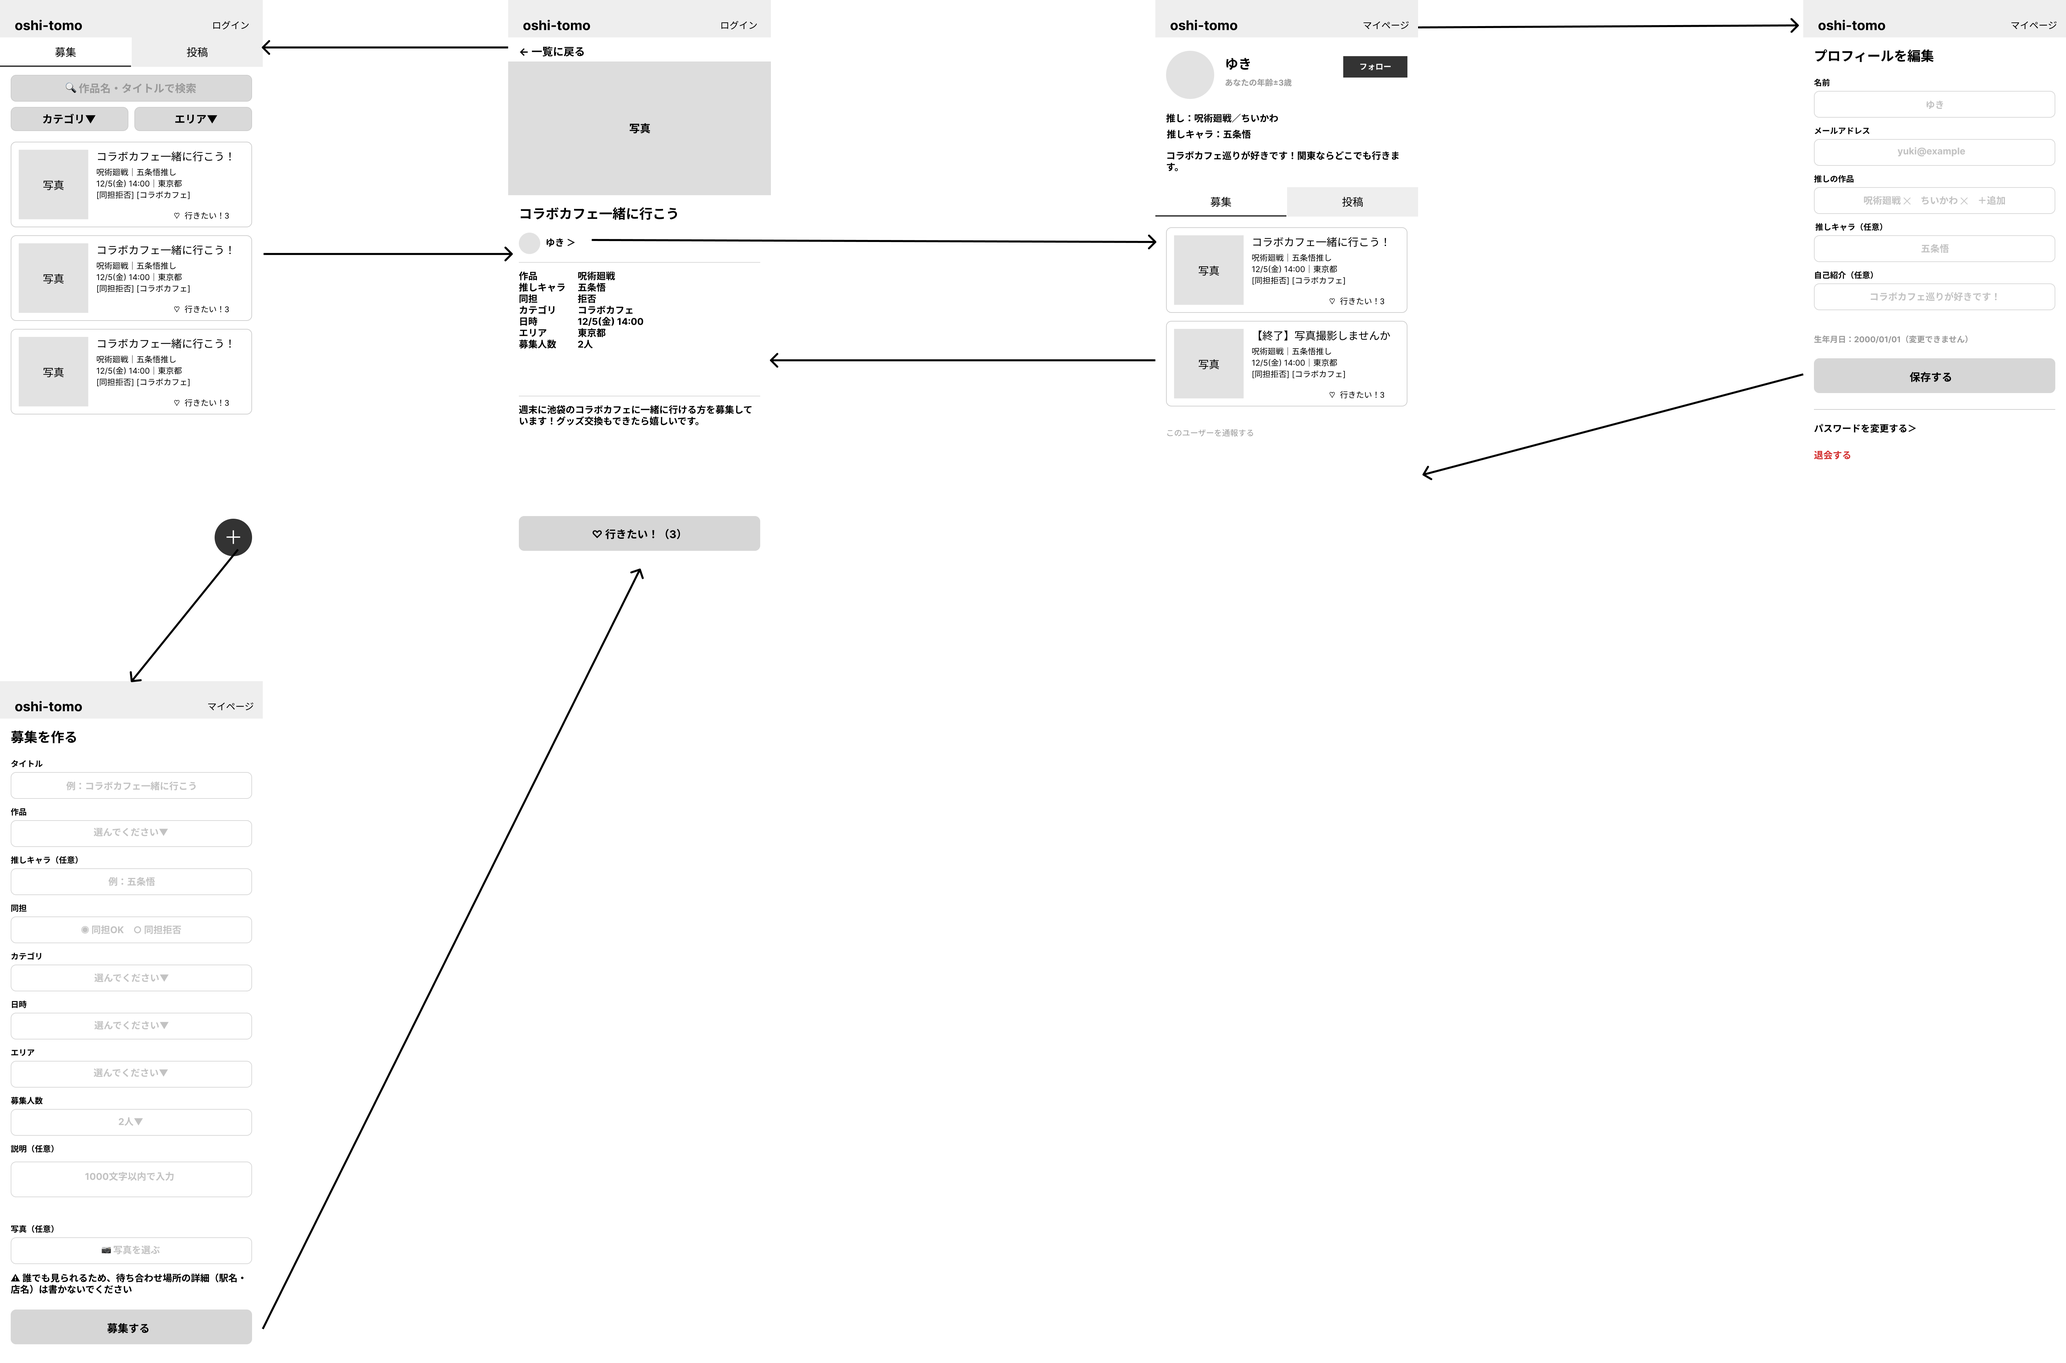
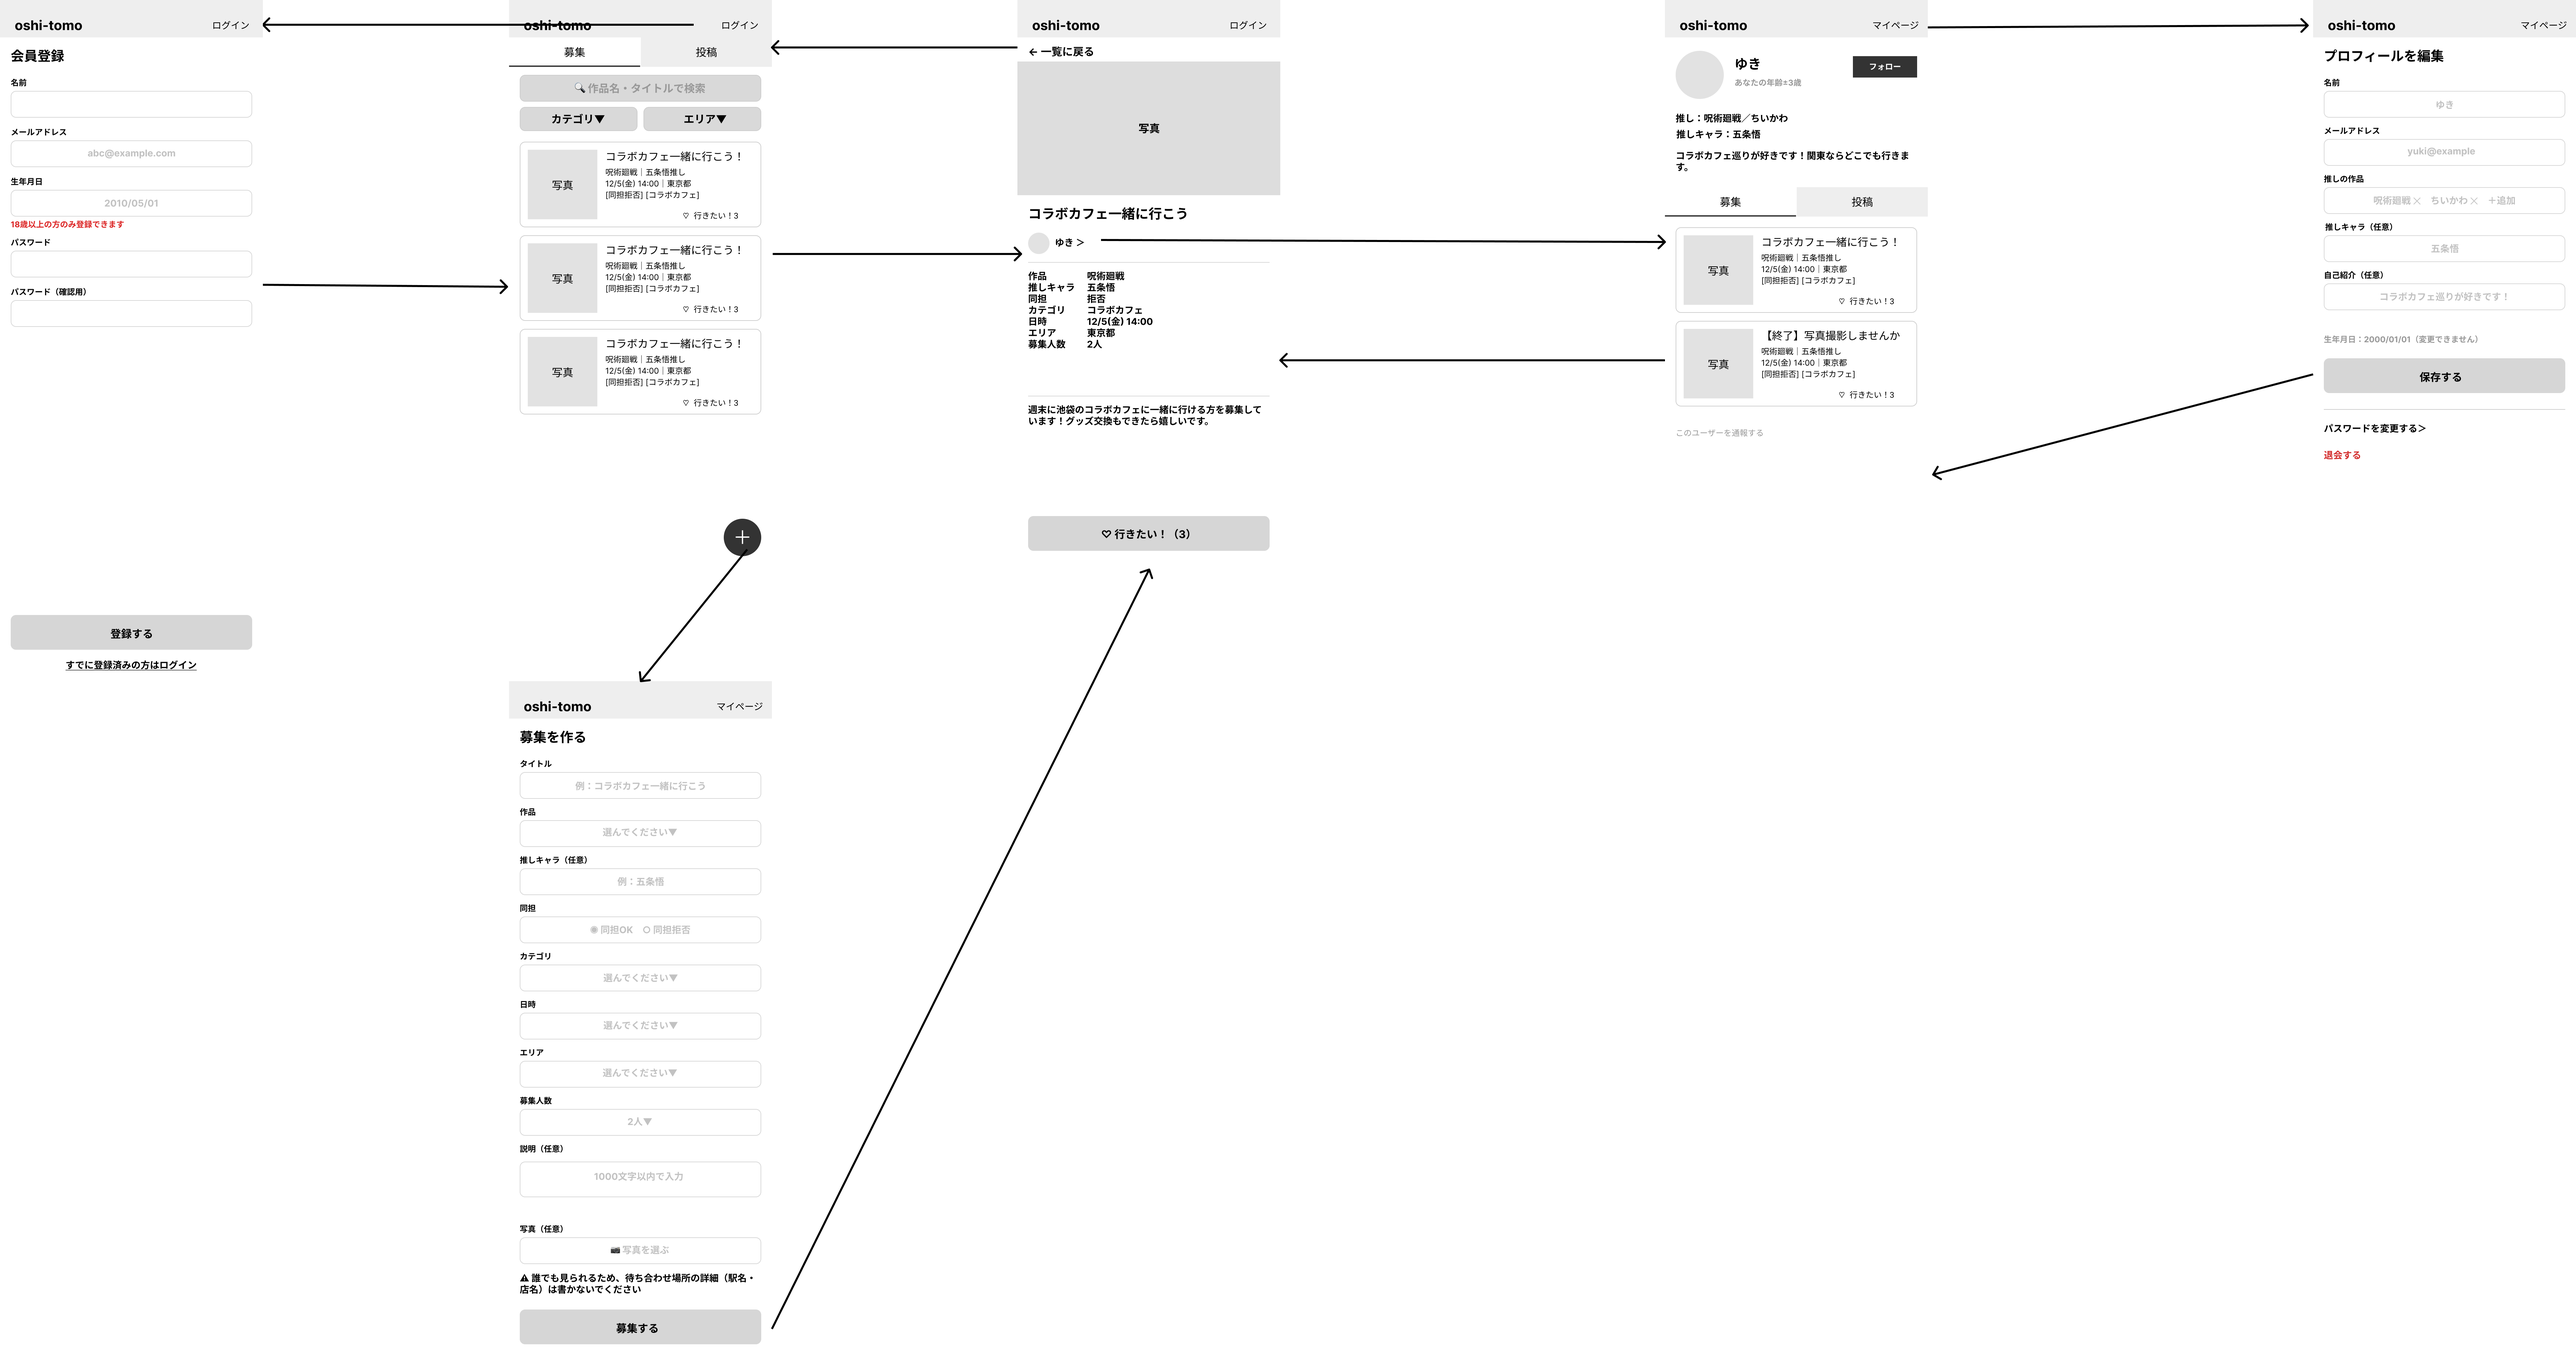
week21: 会員登録の画面を追加し、ER図・画面遷移図を更新

diff --git a/docs/01_screen-design/figma.md b/docs/01_screen-design/figma.md
@@ -6,8 +6,8 @@ https://www.figma.com/design/Tku4M3QKBPlf8cIJ8SJPN7/oshi-tomo-%E7%94%BB%E9%9D%A2
 
 | ページ | 内容 |
 |--------|------|
-| 画面設計 | 主要画面のワイヤーフレーム（5画面） |
-| 画面遷移図 | 5画面を矢印でつないだ図。画像版は [screen-transition.png](screen-transition.png) |
+| 画面設計 | 主要画面のワイヤーフレーム（6画面） |
+| 画面遷移図 | 6画面を矢印でつないだ図。画像版は [screen-transition.png](screen-transition.png) |
 
 ## 設計の方針
 
@@ -19,13 +19,17 @@ https://www.figma.com/design/Tku4M3QKBPlf8cIJ8SJPN7/oshi-tomo-%E7%94%BB%E9%9D%A2
 
 ## 画面一覧
 
-| No | 画面 | ルート（[routing.md](../03_routing-design/routing.md)） | 主な機能 | 優先度 |
-|----|------|------------------------------------------------------|---------|--------|
-| 01 | 募集一覧（トップ） | GET /recruitments（recruitments.index） | F-03, F-05 | Must |
-| 02 | 募集詳細 | GET /recruitments/{recruitment}（recruitments.show） | F-03, F-07, F-08 | Must |
-| 03 | 募集作成 | GET /recruitments/create（recruitments.create）。編集（recruitments.edit）も同じレイアウト | F-03, F-06 | Must |
-| 04 | プロフィール | GET /users/{user}（users.show） | F-02, F-14, F-15 | Must |
-| 05 | プロフィール編集 | GET /profile（profile.edit） | F-02, F-09 | Must |
+| No | 画面 | ルート（[routing.md](../03_routing-design/routing.md)） | 主な機能 | 優先度 | MVP |
+|----|------|------------------------------------------------------|---------|--------|-----|
+| 01 | 募集一覧（トップ） | GET /recruitments（recruitments.index） | F-03, F-05 | Must | ✅（検索はキーワードのみ） |
+| 02 | 募集詳細 | GET /recruitments/{recruitment}（recruitments.show） | F-03, F-07, F-08 | Must | ✅ |
+| 03 | 募集作成 | GET /recruitments/create（recruitments.create）。編集（recruitments.edit）も同じレイアウト | F-03, F-06 | Must | ✅ |
+| 04 | プロフィール | GET /users/{user}（users.show） | F-02, F-14, F-15 | Must | |
+| 05 | プロフィール編集 | GET /profile（profile.edit） | F-02, F-09 | Must | |
+| 06 | 会員登録 | GET /register（register） | F-01 | Must | ✅ |
+
+- 06 は Week 21 で追加した。Breeze の会員登録画面に「生年月日」の欄を足すため、そのままの画面ではなくなるから
+- 01 のカテゴリ・エリアの絞り込みは MVP の後に作る。MVP では検索欄（キーワード）だけ動くようにする
 
 ### 各画面で表している状態
 
@@ -36,6 +40,7 @@ https://www.figma.com/design/Tku4M3QKBPlf8cIJ8SJPN7/oshi-tomo-%E7%94%BB%E9%9D%A2
 | 03 | 募集作成 | ログインしている人が、新しく募集を作る |
 | 04 | プロフィール | ログインしている人が、他の人のプロフィールを見ている（年齢の範囲・フォローボタンを表示） |
 | 05 | プロフィール編集 | ログインしている人が、自分のプロフィールを編集する |
+| 06 | 会員登録 | ログインしていない人が、18歳未満の生年月日を入力して「登録する」を押した（エラーを表示） |
 
 ## 画面遷移
 
@@ -51,6 +56,8 @@ https://www.figma.com/design/Tku4M3QKBPlf8cIJ8SJPN7/oshi-tomo-%E7%94%BB%E9%9D%A2
 | 6 | 04 プロフィール | 募集カード | 02 募集詳細 |
 | 7 | 04 プロフィール | マイページ（自分のプロフィールのとき「編集する」） | 05 プロフィール編集 |
 | 8 | 05 プロフィール編集 | 保存する | 04 プロフィール |
+| 9 | 01 募集一覧 | ヘッダーの「ログイン」→ ログイン画面の「新規登録」 | 06 会員登録（ログイン画面は Breeze のものを使うため描いていない） |
+| 10 | 06 会員登録 | 登録する | 01 募集一覧（Breeze の `/dashboard` ではなく募集一覧へ） |
 
 図に書いていないルール
 - どの画面からも、ヘッダーの「oshi-tomo」で 01 募集一覧へ、「マイページ」で自分のプロフィールへ移動できる
@@ -80,10 +87,12 @@ https://www.figma.com/design/Tku4M3QKBPlf8cIJ8SJPN7/oshi-tomo-%E7%94%BB%E9%9D%A2
 | エラー表示を設計したか | 入力エラーは、各入力欄のすぐ下に赤字で表示する（Breeze の表示と同じ形）。18歳未満の登録エラーも同じ |
 | ローディング状態を考慮したか | 「行きたい！」・フォロー（Ajax）は、通信中はボタンを押せないようにして二重送信を防ぐ |
 
-## 今回作っていない画面（Week 21 で追加を検討）
+## 今回作っていない画面（Week 21 で確定）
 
 | 画面 | 理由 |
 |------|------|
-| 会員登録・ログイン | Breeze の画面を使う。会員登録には生年月日の入力欄を追加する |
+| ログイン・パスワード再設定 | Breeze の画面をそのまま使う（会員登録は 06 として追加した） |
+| エラーページ（404 など） | Laravel の標準のエラーページを使う |
+| 公式情報の一覧・お問い合わせ | Could のため。お問い合わせは 03 と同じフォームのレイアウトで作る |
 | 投稿一覧・投稿詳細・投稿作成 | Should のため。募集の画面（01〜03）と同じレイアウトで作る |
 | 通報フォーム | Could のため |

diff --git a/docs/00_overview.md b/docs/00_overview.md
@@ -22,7 +22,7 @@
 | No | 設計書 | ファイル | 内容 |
 |----|--------|---------|------|
 | - | 要件定義書 | [requirements.md](requirements.md) | 何を作るか（Week 18、設計に合わせて 1.2 に改訂） |
-| 01 | 画面設計 | [01_screen-design/figma.md](01_screen-design/figma.md) | Figma のワイヤーフレーム（5画面）、画面遷移図 [screen-transition.png](01_screen-design/screen-transition.png) |
+| 01 | 画面設計 | [01_screen-design/figma.md](01_screen-design/figma.md) | Figma のワイヤーフレーム（6画面）、画面遷移図 [screen-transition.png](01_screen-design/screen-transition.png) |
 | 02 | DB設計 | [02_database-design/table-definitions.md](02_database-design/table-definitions.md) | テーブル定義（12テーブル） |
 | | | [02_database-design/er-diagram.md](02_database-design/er-diagram.md) | ER図（Mermaid）。画像版 [er-diagram.png](02_database-design/er-diagram.png) |
 | | | [02_database-design/migration-plan.md](02_database-design/migration-plan.md) | マイグレーションを作る順番と内容、Seeder |
@@ -50,4 +50,4 @@
 
 - 実装期間は 2026/12/1〜12/9（最初の提出）。11/28〜11/30 に前倒しで環境構築を行う
 - 本番環境へのデプロイは、最初の提出の後に行う
-- 会員登録・投稿・通報の画面は、Week 21 の見直しで Figma に追加するかを決める
+- Figma には MVP の画面（01〜03・06）と、プロフィール（04・05）を描いた。投稿・通報・公式情報・お問い合わせの画面は、募集の画面と同じレイアウトで作るため描いていない
